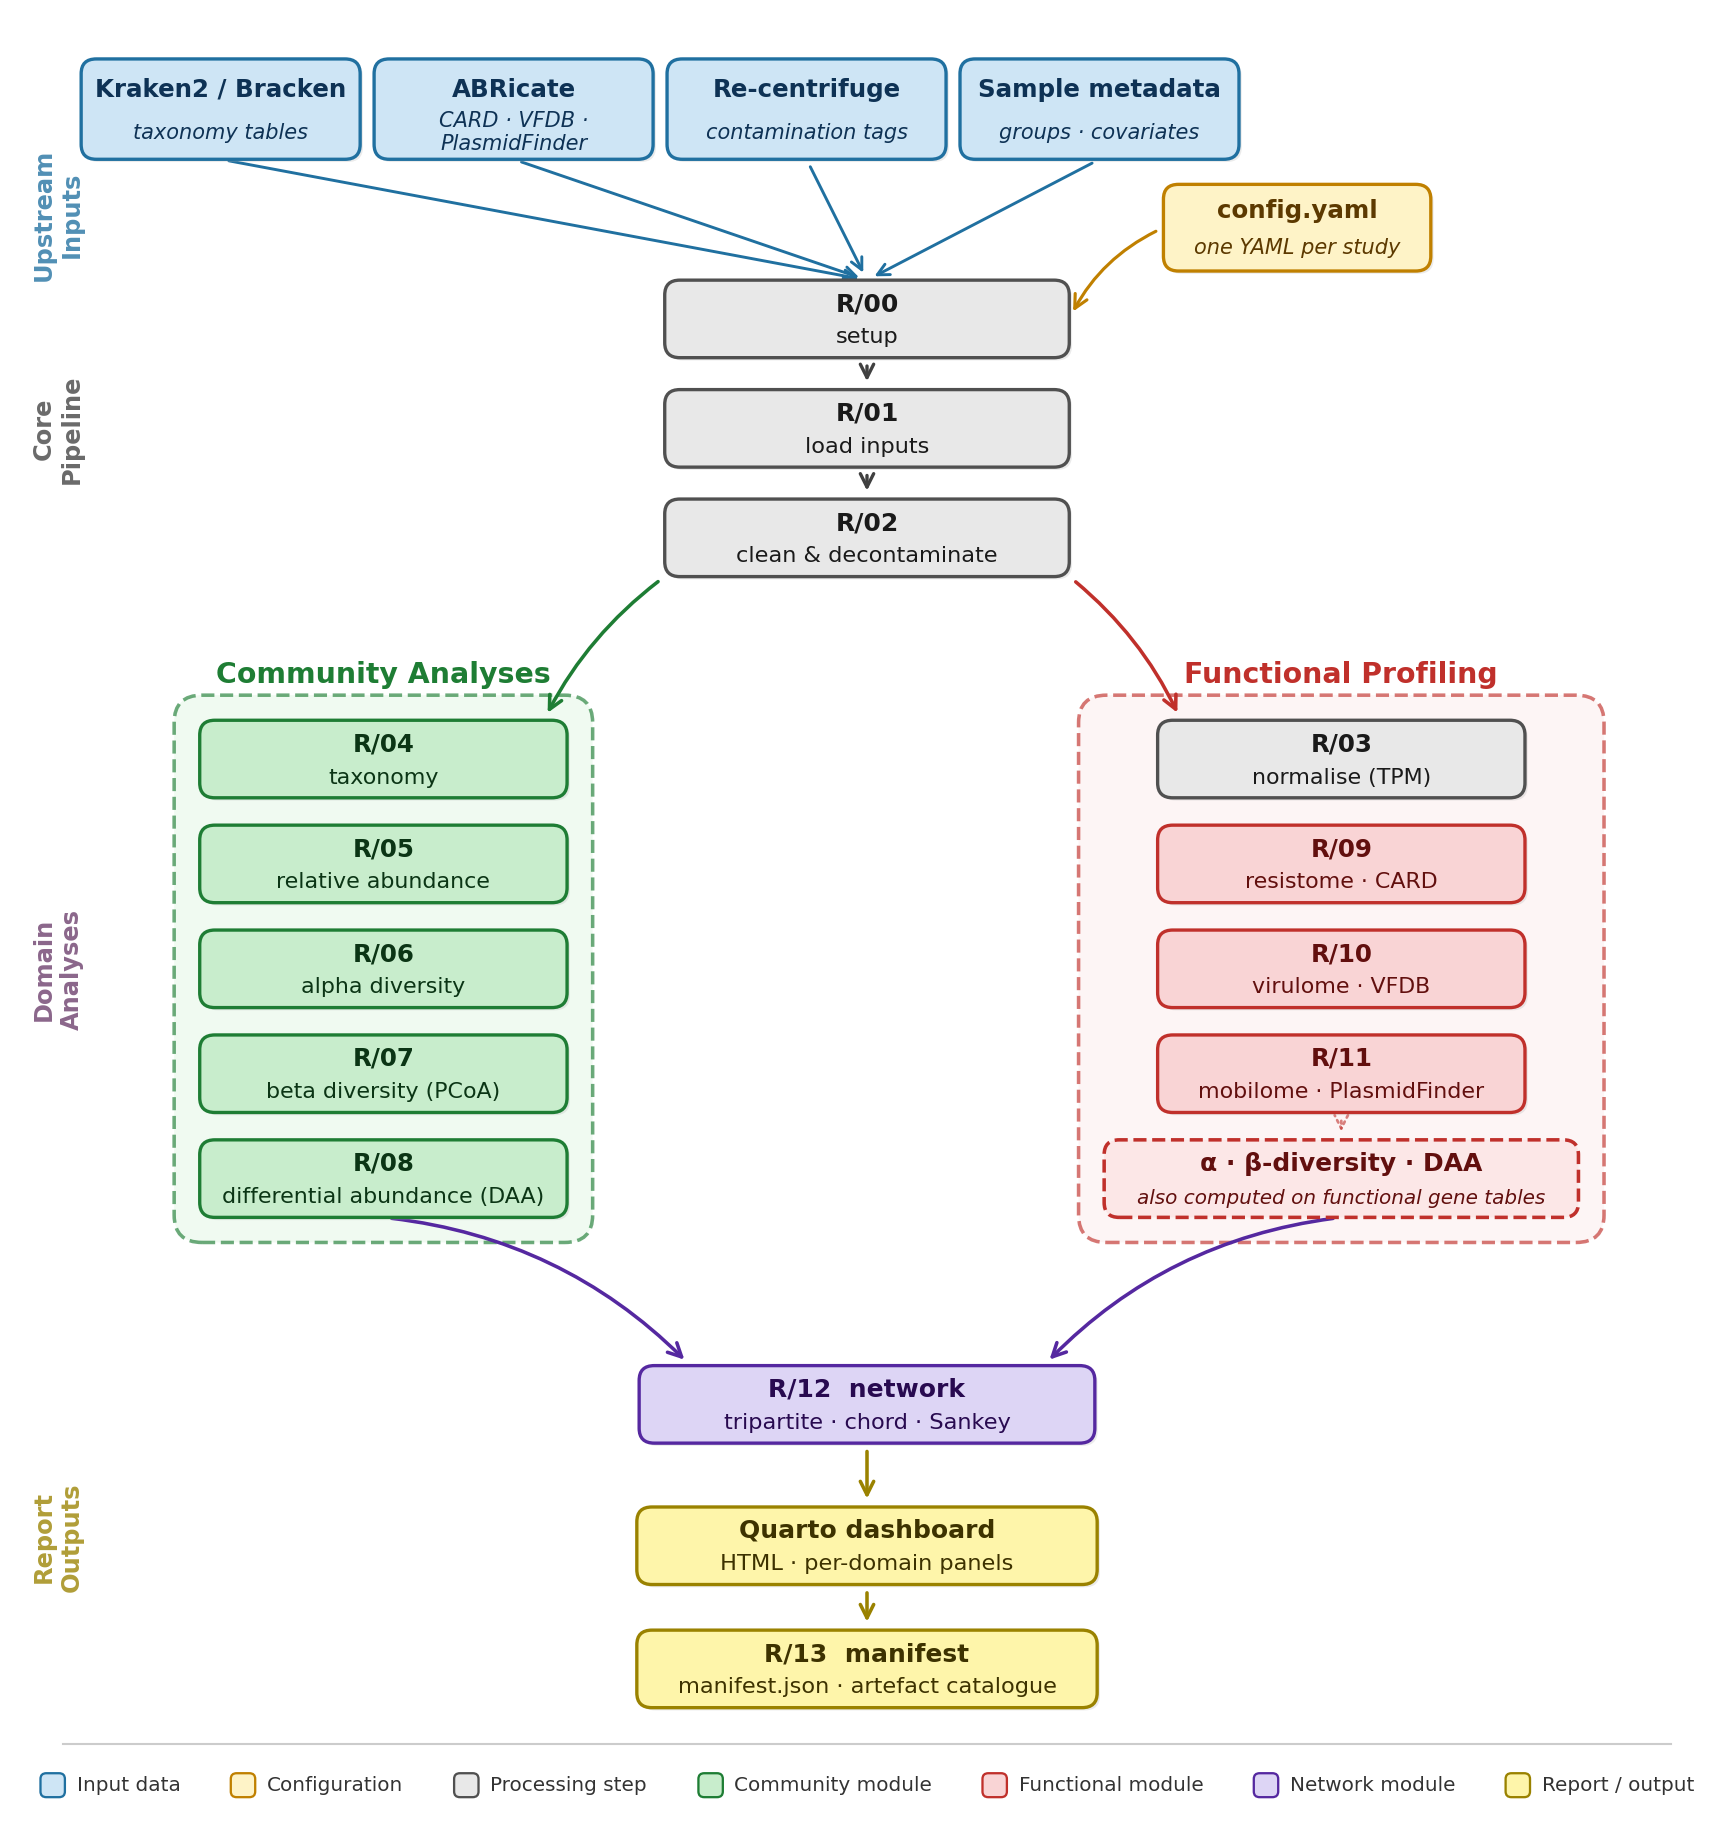
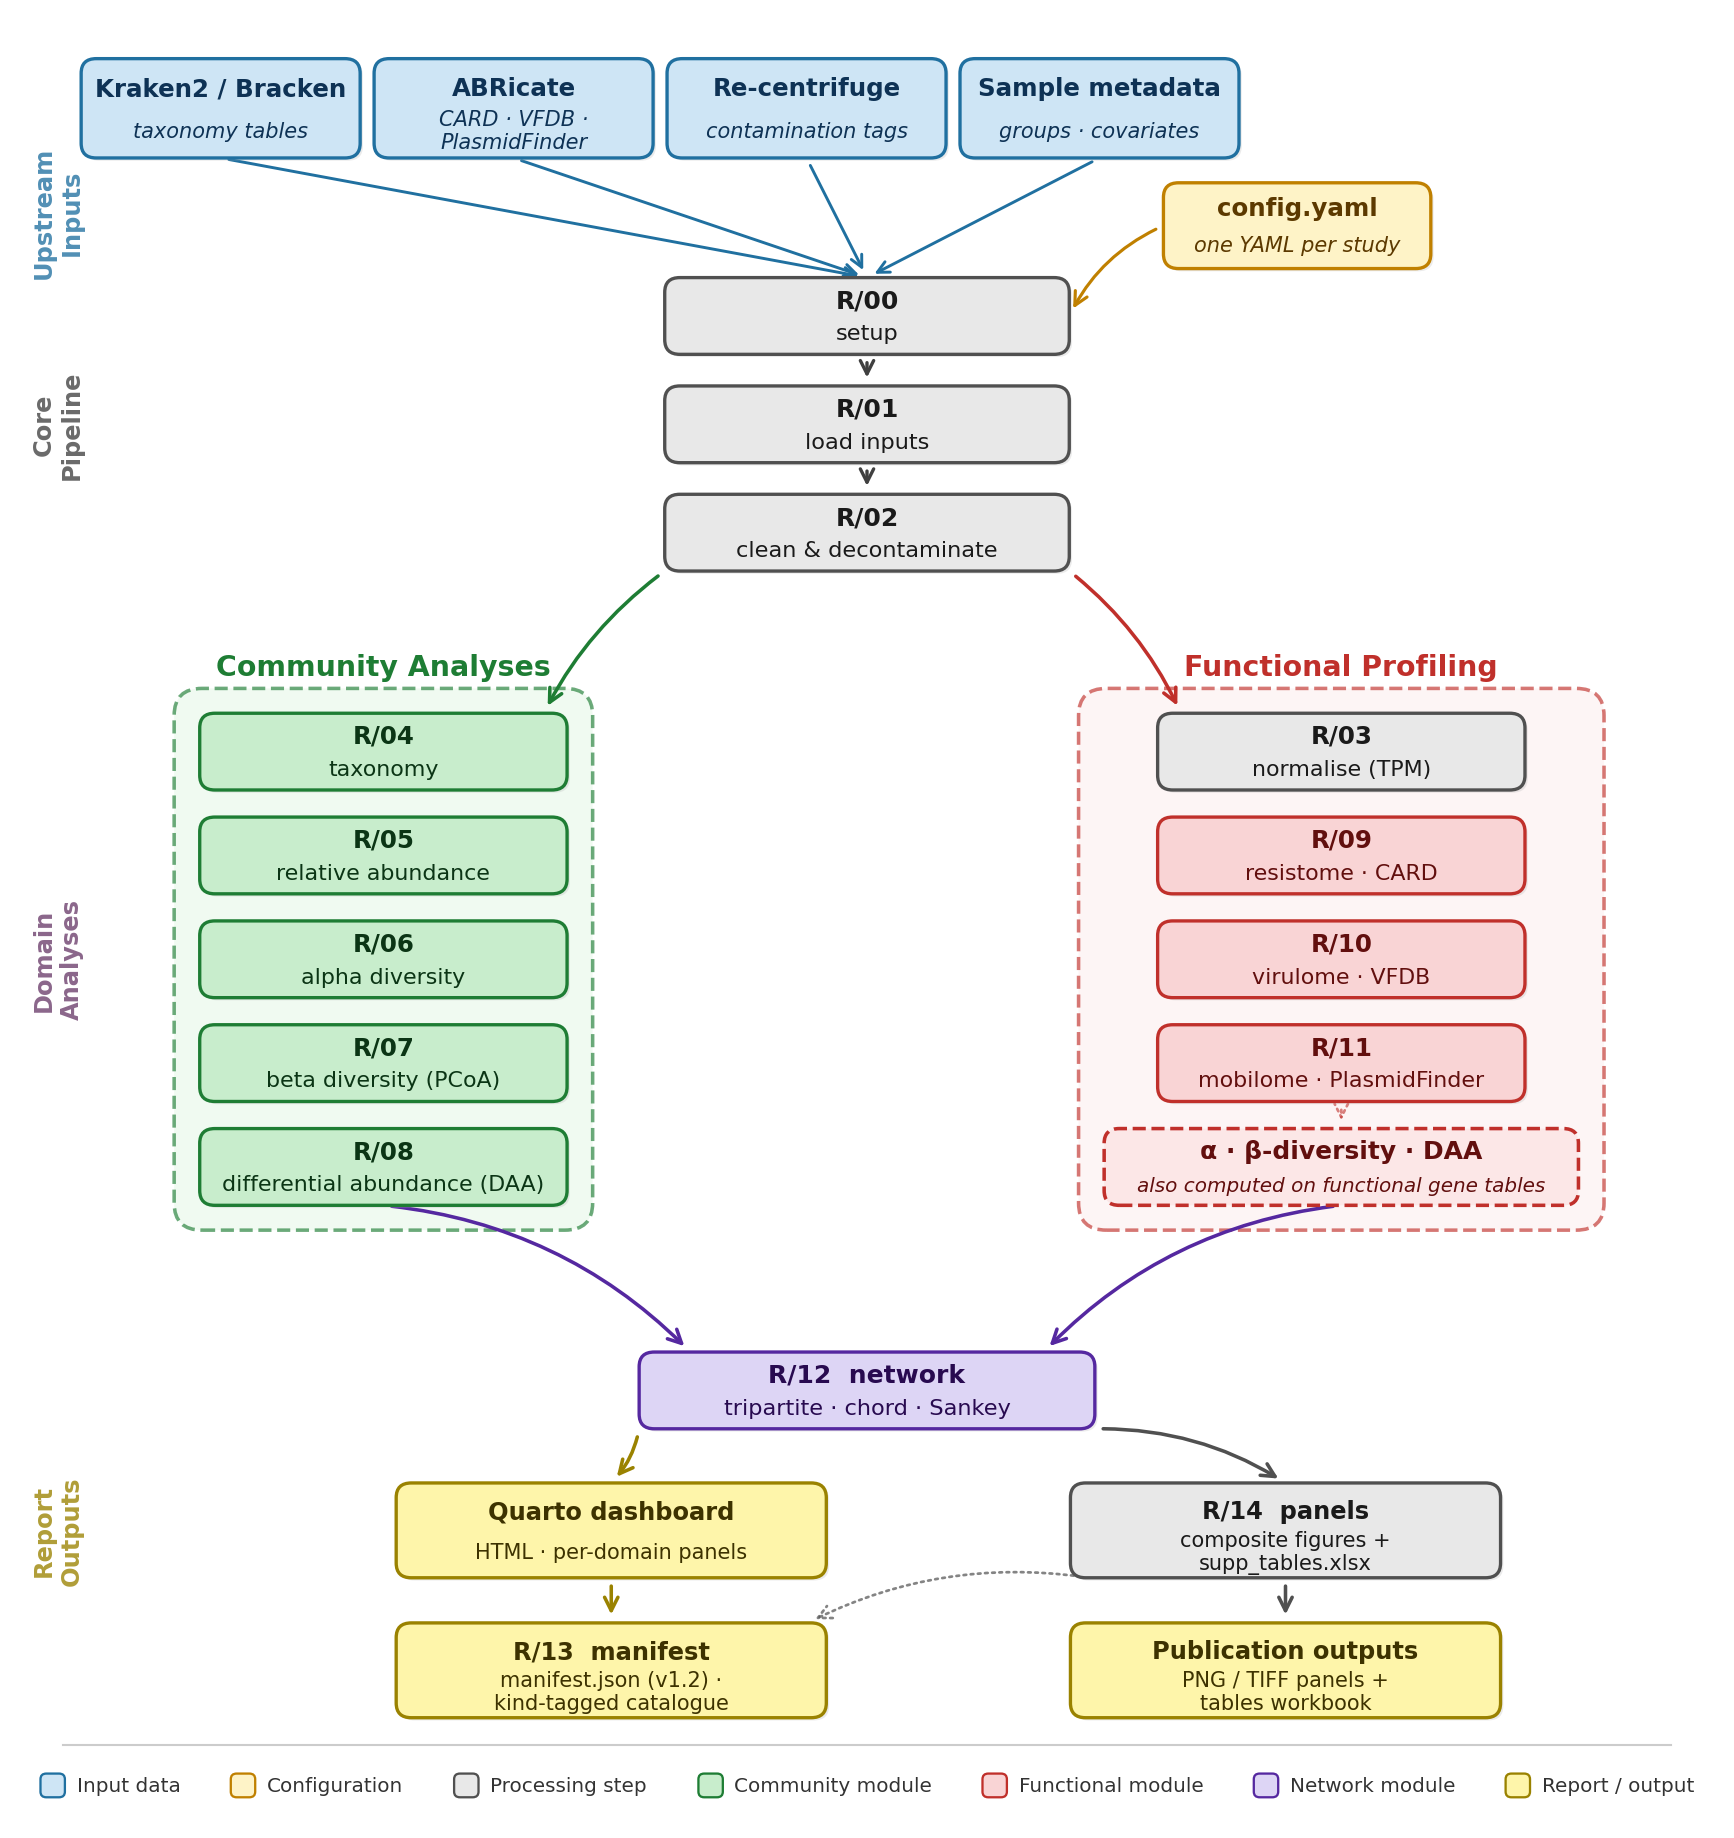
docs(readme): add pipeline roadmap figure
Inserts a new "Pipeline roadmap" section between "Why this exists"
and "Features", embedding docs/manuscript/figure1_pipeline_schematic.png
as the visual answer to "what does the pipeline do?". Short caption
walks readers from upstream inputs through the R/NN modules to the
manifest + composite TIFFs the run produces.

Also bumps the rendered PNG to the latest matplotlib export.

diff --git a/README.md b/README.md
@@ -28,6 +28,24 @@ decontamination to the final HTML report.
 
 ---
 
+## 🗺 Pipeline roadmap
+
+<p align="center">
+  <img alt="Pipeline roadmap" src="docs/manuscript/figure1_pipeline_schematic.png" width="720">
+</p>
+
+Upstream inputs (Kraken2 / Bracken taxonomy, ABRicate gene-element hits
+against CARD / VFDB / PlasmidFinder, Re-centrifuge contamination tags,
+and the study metadata) feed a single `config.yaml`. From there the
+numbered `R/NN_*.R` modules cover decontamination, TPM normalisation,
+community analyses (taxonomy / relative abundance / α + β diversity /
+ALDEx2 differential abundance), functional profiling (resistome /
+virulome / mobilome), and the tripartite network. The run ends with a
+Quarto HTML dashboard, a kind-tagged `manifest.json` catalogue, and the
+publication outputs (composite TIFFs + supplementary XLSX).
+
+---
+
 ## 🚀 Features
 
 - 🧾 **One config per study.** Everything that varies between studies
